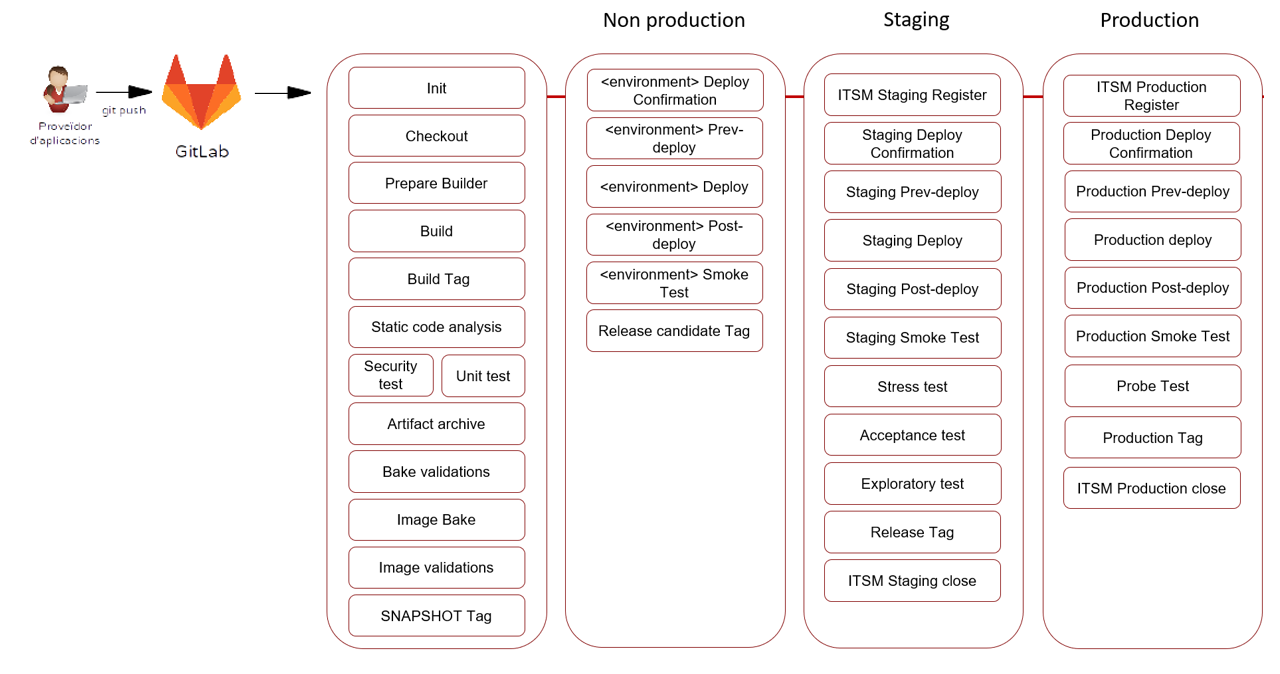
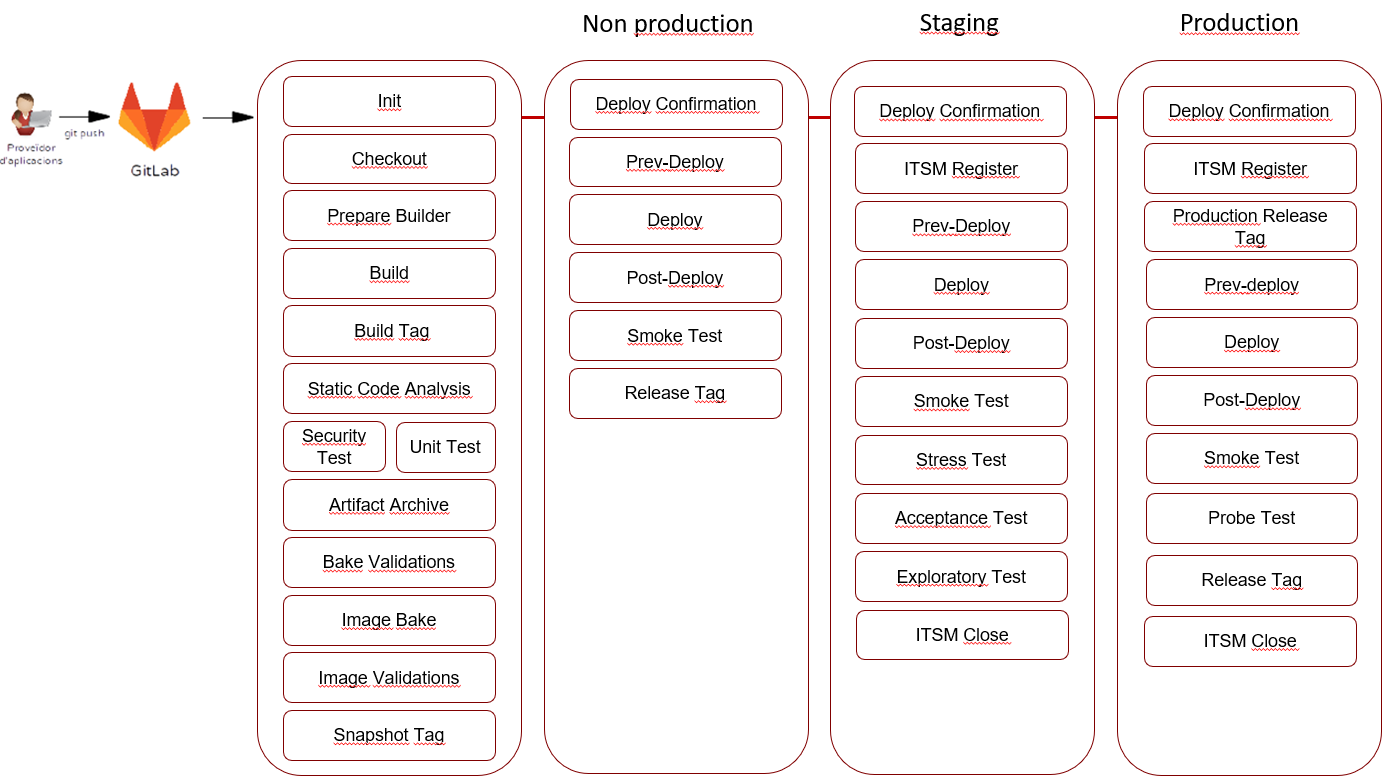
Revisió model de pipelines per a adequar-lo a la realitat a dia d'avui (tageig definitiu, deploy confirmation i altres)

diff --git a/content/sic30-serveis/ci.md b/content/sic30-serveis/ci.md
@@ -149,31 +149,31 @@ A continuació s'explica breument cadascuna de les etapes de desplegament previs
 
 * Per a **entorns no productius** (Integració):
 
-    * **Deploy Confirmation**: si el desplegament a l'entorn no productiu requereix conformitat prèvia, l'usuari haurà d'aprovar manualment l'inici del desplegament a l'entorn no productiu un cop verificades les etapes anteriors.
+    * **<Environment>Deploy Confirmation**: si el desplegament a l'entorn no productiu requereix conformitat prèvia, l'usuari haurà d'aprovar manualment l'inici del desplegament a l'entorn no productiu un cop verificades les etapes anteriors.
 
-    * **Prev-deploy**: execució de possibles tasques prèvies al desplegament de l'aplicació a l'entorn no productiu.
+    * **Prev-Deploy**: execució de possibles tasques prèvies al desplegament de l'aplicació a l'entorn no productiu.
 
     * **Deploy**: desplegament de l'aplicació segons la modalitat de desplegament aplicable a l'entorn no productiu.
 
-    * **Post-deploy**: execució de possibles tasques posteriors al desplegament de l'aplicació a l'entorn no productiu.
+    * **Post-Deploy**: execució de possibles tasques posteriors al desplegament de l'aplicació a l'entorn no productiu.
 
     * **Smoke Test**: etapa prevista per a la verificació ràpida a l'entorn no productiu per tal d'assegurar que l'aplicació funciona correctament i no té defectes evidents.
 
-    * **Release Candidate Tag**: generació del tag de Release Candidate al repositori de codi segons es tracta d'una versió desplegada a un entorn no productiu. Per exemple: 1.0.0-RC001.
+    * **Release Tag**: generació del tag de Release Candidate al repositori de codi segons es tracta d'una versió desplegada a un entorn no productiu. Per exemple: 1.0.0-RC001.
 
 * Per a l'**entorn de Staging** (Preproducció):
 
-    * **ITSM Staging Register**: etapa prevista per a la generació automàtica d'un tiquet Remedy CRQ per a la traçabilitat dels desplegaments automàtics a l'entorn de Staging.
+    * **<Environment>Deploy Confirmation**: si el desplegament a l'entorn requereix conformitat prèvia, l'usuari haurà d'aprovar manualment l'inici del desplegament a l'entorn Staging un cop verificades les etapes anteriors.
 
-    * **Staging Deploy Confirmation**: si el desplegament a l'entorn requereix conformitat prèvia, l'usuari haurà d'aprovar manualment l'inici del desplegament a l'entorn Staging un cop verificades les etapes anteriors.
+    * **ITSM Register**: etapa prevista per a la generació automàtica d'un tiquet Remedy CRQ per a la traçabilitat dels desplegaments automàtics a l'entorn de Staging.
 
-    * **Staging Prev-deploy**: execució de possibles tasques prèvies al desplegament de l'aplicació a l'entorn de Staging.
+    * **Prev-Deploy**: execució de possibles tasques prèvies al desplegament de l'aplicació a l'entorn de Staging.
 
-    * **Staging Deploy**: desplegament de l'aplicació segons la modalitat de desplegament aplicable a l'entorn de Staging.
+    * **Deploy**: desplegament de l'aplicació segons la modalitat de desplegament aplicable a l'entorn de Staging.
 
-    * **Staging Post-deploy**: execució de possibles tasques posteriors al desplegament de l'aplicació a l'entorn de Staging.
+    * **Post-Deploy**: execució de possibles tasques posteriors al desplegament de l'aplicació a l'entorn de Staging.
 
-    * **Staging Smoke Test**: etapa prevista per a la verificació ràpida a l'entorn de Staging per tal d'assegurar que l'aplicació funciona correctament i no té defectes evidents.
+    * **Smoke Test**: etapa prevista per a la verificació ràpida a l'entorn de Staging per tal d'assegurar que l'aplicació funciona correctament i no té defectes evidents.
 
     * **Stress Test**: etapa prevista per a les proves de resistència a l'entorn de Staging per tal de verificar l'estabilitat i fiabilitat de l'aplicació.
 
@@ -181,29 +181,29 @@ A continuació s'explica breument cadascuna de les etapes de desplegament previs
 
     * **Exploratory Test**: etapa prevista per a les proves exploratòries a l'entorn de Staging per tal de verificar els resultats obtinguts pels diferents casos de prova que es defineixin.
 
-    * **Release Tag**: generació del tag de Release (versió definitiva) al repositori de codi segons es tracta d'una versió desplegada a un entorn de Staging. Per exemple: 1.0.0.
-
-    * **ITSM Staging Close**: etapa prevista per al tancament automàtic del tiquet Remedy CRQ generat per a la traçabilitat dels desplegaments automàtics a l'entorn de Staging.
+    * **ITSM Close**: etapa prevista per al tancament automàtic del tiquet Remedy CRQ generat per a la traçabilitat dels desplegaments automàtics a l'entorn de Staging.
 
 * Per a l'**entorn de Production** (Producció):
 
-    * **ITSM Production Register**: etapa prevista per a la generació automàtica d'un tiquet Remedy CRQ per a la traçabilitat dels desplegaments automàtics a l'entorn de Producció.
+    * **<Environment>Deploy Confirmation**: si el desplegament a l'entorn requereix conformitat prèvia, l'usuari haurà d'aprovar manualment l'inici del desplegament a l'entorn Producció un cop verificades les etapes anteriors.
 
-    * **Production Deploy Confirmation**: si el desplegament a l'entorn requereix conformitat prèvia, l'usuari haurà d'aprovar manualment l'inici del desplegament a l'entorn Producció un cop verificades les etapes anteriors.
+    * **ITSM Register**: etapa prevista per a la generació automàtica d'un tiquet Remedy CRQ per a la traçabilitat dels desplegaments automàtics a l'entorn de Producció.
 
-    * **Production Prev-deploy**: execució de possibles tasques prèvies al desplegament de l'aplicació a l'entorn de Producció.
+    * **Production Release Tag**: generació del tag de Release (versió definitiva) al repositori de codi segons es tracta d'una versió desplegada a un entorn de Staging. Per exemple: 1.0.0.
 
-    * **Production Deploy**: desplegament de l'aplicació segons la modalitat de desplegament aplicable a l'entorn de Producció.
+    * **Prev-Deploy**: execució de possibles tasques prèvies al desplegament de l'aplicació a l'entorn de Producció.
 
-    * **Production Post-deploy**: execució de possibles tasques posteriors al desplegament de l'aplicació a l'entorn de Producció.
+    * **Deploy**: desplegament de l'aplicació segons la modalitat de desplegament aplicable a l'entorn de Producció.
 
-    * **Production Smoke Test**: etapa prevista per a la verificació ràpida a l'entorn de Producció per tal d'assegurar que l'aplicació funciona correctament i no té defectes evidents.
+    * **Post-Deploy**: execució de possibles tasques posteriors al desplegament de l'aplicació a l'entorn de Producció.
+
+    * **Smoke Test**: etapa prevista per a la verificació ràpida a l'entorn de Producció per tal d'assegurar que l'aplicació funciona correctament i no té defectes evidents.
 
     * **Probe Test**: etapa prevista per a la verificació de sondes a l'entorn de Producció per tal d'assegurar que l'aplicació funciona correctament.
 
-    * **Production Tag**: generació del tag de Release al repositori de codi segons es tracta d'una versió desplegada a un entorn de Producció. Per exemple: 1.0.0-PR.
+    * **Release Tag**: generació del tag de Release al repositori de codi segons es tracta d'una versió desplegada a un entorn de Producció. Per exemple: 1.0.0-PR.
 
-    * **ITSM Production Close**: etapa prevista per al tancament automàtic del tiquet Remedy CRQ generat per a la traçabilitat dels desplegaments automàtics a l'entorn de Producció.
+    * **ITSM Close**: etapa prevista per al tancament automàtic del tiquet Remedy CRQ generat per a la traçabilitat dels desplegaments automàtics a l'entorn de Producció.
 
 
 <div class="message information">
